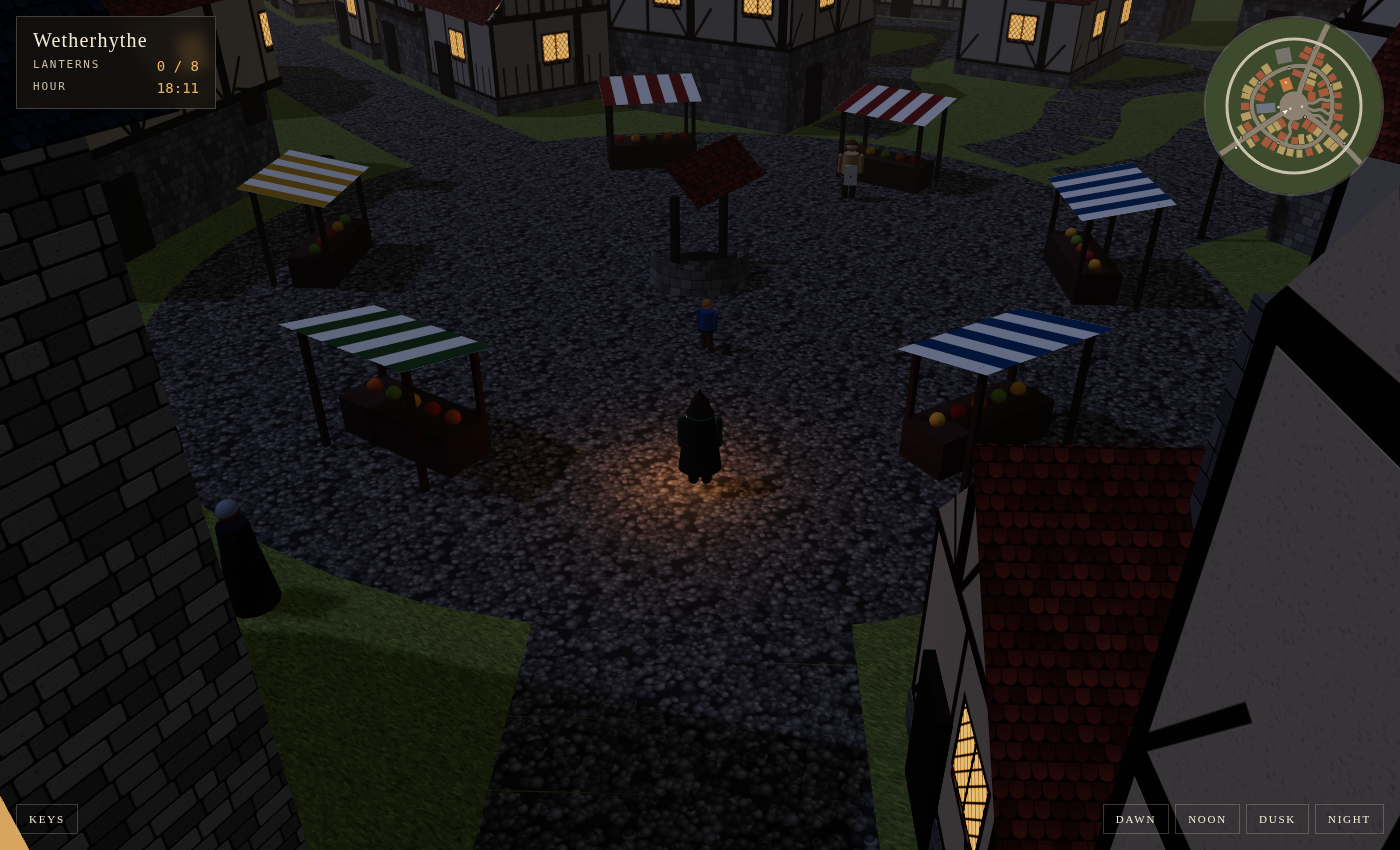
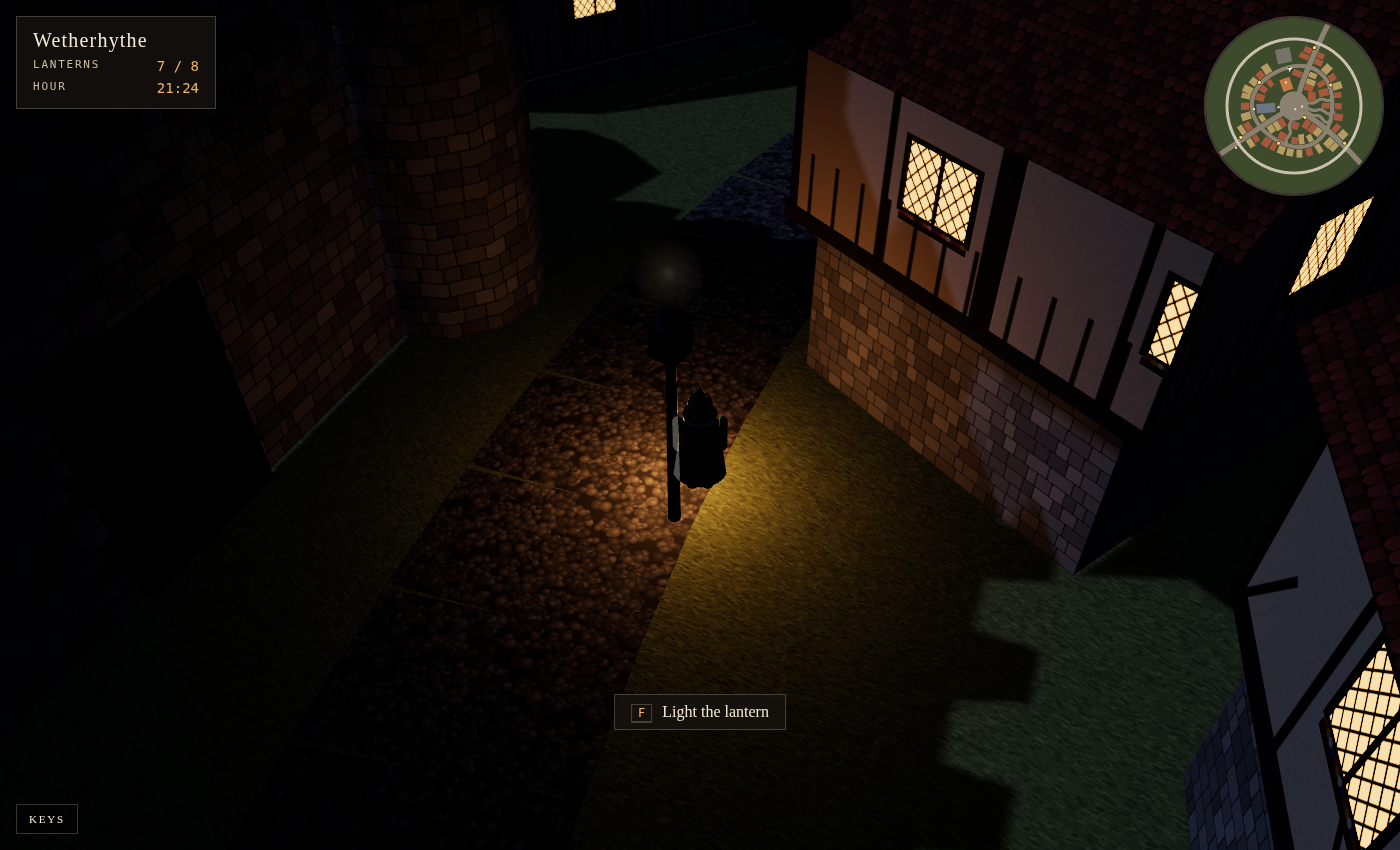
Lanternfall: chimney smoke, embers over unlit lanterns, a child round the well, touch controls
Also a brighter dusk, a steeper camera that steps in front of walls, a
minimap that redraws on wall-clock time, and the lamplighter clear of the
church tower.

Claude-Session: https://claude.ai/code/session_016BTuMxz6FRcSEBygW4xFYi

diff --git a/static/game.js b/static/game.js
@@ -74,6 +74,45 @@ const M = makeMaterials(town.season);
 const world = buildTown(town, M);
 scene.add(world.group);
 const lanterns = buildLanterns(town, M, scene, glowTexture);
+
+// Chimney smoke: a few soft puffs per chimney, rising and thinning on the wind.
+const smoke = (() => {
+  const chimneys = world.chimneys.slice(0, 48);
+  const per = 7, n = chimneys.length * per;
+  const pos = new Float32Array(n * 3), col = new Float32Array(n * 4), age = new Float32Array(n);
+  for (let i = 0; i < n; i++) age[i] = Math.random() * per;
+  const g = new THREE.BufferGeometry();
+  g.setAttribute("position", new THREE.BufferAttribute(pos, 3));
+  g.setAttribute("color", new THREE.BufferAttribute(col, 4));
+  const puff = (() => {
+    const c = document.createElement("canvas");
+    c.width = c.height = 64;
+    const x = c.getContext("2d");
+    const gr = x.createRadialGradient(32, 32, 0, 32, 32, 32);
+    gr.addColorStop(0, "rgba(255,255,255,0.9)");
+    gr.addColorStop(1, "rgba(255,255,255,0)");
+    x.fillStyle = gr;
+    x.fillRect(0, 0, 64, 64);
+    return new THREE.CanvasTexture(c);
+  })();
+  const m = new THREE.PointsMaterial({ map: puff, size: 2.6, vertexColors: true, transparent: true, depthWrite: false });
+  const points = new THREE.Points(g, m);
+  points.frustumCulled = false;
+  scene.add(points);
+  return { update(dt, shade) {
+    for (let i = 0; i < n; i++) {
+      age[i] += dt;
+      if (age[i] > per) age[i] -= per;
+      const c = chimneys[Math.floor(i / per)], a = age[i];
+      pos[i * 3] = c.x + a * 0.55 + Math.sin(a * 1.3 + i) * 0.25;
+      pos[i * 3 + 1] = c.y + a * 0.9;
+      pos[i * 3 + 2] = c.z + a * 0.25;
+      col[i * 4] = col[i * 4 + 1] = col[i * 4 + 2] = shade;
+      col[i * 4 + 3] = Math.max(0, 0.4 * Math.min(1, a * 2) * (1 - a / per));
+    }
+    g.attributes.position.needsUpdate = g.attributes.color.needsUpdate = true;
+  } };
+})();
 const H = (x, z) => heightAt(town, x, z);
 
 const LINES = (() => {
@@ -116,7 +155,7 @@ const state = {
   lit: 0,
   started: 0,
   foundLamplighter: false,
-  yaw: 0.6, pitch: 0.62, dist: 19,
+  yaw: 0.6, pitch: 0.8, dist: 16,
   vel: new THREE.Vector3(),
 };
 const sunDir = new THREE.Vector3();
@@ -140,15 +179,15 @@ function setTime(h) {
   }
   const lightDir = elev > -2 ? sunDir : new THREE.Vector3(-0.3, 0.8, -0.5).normalize();
   sun.userData.dir = lightDir.clone();
-  hemi.intensity = THREE.MathUtils.lerp(1.15, 0.42, night);
+  hemi.intensity = THREE.MathUtils.lerp(1.45, 0.42, night);
   hemi.color.set(0xc8d6f0).lerp(new THREE.Color(0x4a5a8a), night);
-  hemi.groundColor.set(0x5a4a32).lerp(new THREE.Color(0x0d0d14), night);
+  hemi.groundColor.set(0x8a7652).lerp(new THREE.Color(0x0d0d14), night);
   const fogDay = new THREE.Color(season.fog), fogDusk = new THREE.Color(0xd59a6a), fogNight = new THREE.Color(0x0b1020);
   scene.fog.color.copy(fogDay).lerp(fogDusk, low * (1 - night) * 0.7).lerp(fogNight, night);
   sky.visible = night < 0.98;
   scene.background = fogNight;
   stars.material.opacity = night;
-  renderer.toneMappingExposure = THREE.MathUtils.lerp(0.85, 1.25, night);
+  renderer.toneMappingExposure = THREE.MathUtils.lerp(1.0, 1.25, night);
   for (const f of M.facades) f.emissiveIntensity = night * 1.5 + low * 0.15;
   M.churchGlass.emissiveIntensity = night * 1.2;
   carry.intensity = night * 7;
@@ -185,6 +224,28 @@ addEventListener("pointermove", (e) => {
   drag = { x: e.clientX, y: e.clientY };
 });
 addEventListener("wheel", (e) => { state.dist = THREE.MathUtils.clamp(state.dist + e.deltaY * 0.02, 6, 40); }, { passive: true });
+
+// A thumbstick on the left and an action button on the right, on touch screens.
+const joy = { x: 0, z: 0, id: null, ox: 0, oy: 0 };
+if (matchMedia("(pointer: coarse)").matches) {
+  $("touch").hidden = false;
+  const pad = $("stick"), knob = $("knob");
+  pad.addEventListener("pointerdown", (e) => {
+    e.stopPropagation();
+    joy.id = e.pointerId; joy.ox = e.clientX; joy.oy = e.clientY;
+    pad.setPointerCapture(e.pointerId);
+  });
+  pad.addEventListener("pointermove", (e) => {
+    if (e.pointerId !== joy.id) return;
+    const dx = e.clientX - joy.ox, dy = e.clientY - joy.oy, d = Math.hypot(dx, dy), k = Math.min(1, d / 50) / (d || 1);
+    joy.x = dx * k; joy.z = dy * k;
+    knob.style.transform = `translate(${joy.x * 40}px, ${joy.z * 40}px)`;
+  });
+  const end = () => { joy.id = null; joy.x = joy.z = 0; knob.style.transform = ""; };
+  pad.addEventListener("pointerup", end);
+  pad.addEventListener("pointercancel", end);
+  $("act").addEventListener("pointerdown", (e) => { e.stopPropagation(); interact(); });
+}
 
 // ---------------------------------------------------------------- movement
 const R = town.radius;
@@ -253,11 +314,12 @@ function move(dt) {
   if (keys.has("KeyD") || keys.has("ArrowRight")) fx += 1;
   if (keys.has("KeyQ")) state.yaw += dt * 1.8;
   if (keys.has("KeyE")) state.yaw -= dt * 1.8;
-  const run = keys.has("ShiftLeft") || keys.has("ShiftRight");
+  if (joy.id !== null) { fx = joy.x; fz = joy.z; }
+  const run = keys.has("ShiftLeft") || keys.has("ShiftRight") || Math.hypot(joy.x, joy.z) > 0.95;
   const len = Math.hypot(fx, fz);
-  const speed = run ? 7.5 : 4.2;
+  const speed = (run ? 7.5 : 4.2) * Math.min(1, len);
   const target = new THREE.Vector3();
-  if (len > 0 && !dialog.open) {
+  if (len > 0.05 && !dialog.open) {
     const sy = Math.sin(state.yaw), cy = Math.cos(state.yaw);
     target.set((fx * cy + fz * sy) / len * speed, 0, (-fx * sy + fz * cy) / len * speed);
   }
@@ -322,6 +384,7 @@ function interact() {
   }
   f.mesh.lookAt(player.position.x, f.mesh.position.y, player.position.z);
   dialog.open = true;
+  dialog.who = f;
   dialog.lines = lines;
   dialog.i = 0;
   $("dialog-name").textContent = `${f.name}, the ${f.role}`;
@@ -503,7 +566,8 @@ function frame(now) {
       }
     }
     camPos.lerpVectors(look, camPos, reach);
-    camera.position.lerp(camPos, Math.min(1, dt * (reach < 1 ? 14 : 6)));
+    if (camera.position.distanceTo(camPos) > 30) camera.position.copy(camPos);   // a jump, not a walk
+    else camera.position.lerp(camPos, Math.min(1, dt * (reach < 1 ? 14 : 6)));
     camera.lookAt(look);
     sun.target.position.set(p.x, 0, p.z);
     const n = nearest();
@@ -514,7 +578,21 @@ function frame(now) {
     if (now - mmLast > 80) { drawMinimap(); mmLast = now; }
   }
   sun.position.copy(sun.target.position).addScaledVector(sun.userData.dir || sunDir, 150);
-  for (const f of folk) animate(f.mesh, dt, 0);
+  for (const f of folk) {
+    if (f.role === "child" && !(dialog.open && dialog.who === f)) {
+      f.angle = (f.angle ?? Math.atan2(f.z, f.x)) + dt * 0.45;
+      const r = 3.4;
+      f.mesh.position.set(Math.cos(f.angle) * r, 0, Math.sin(f.angle) * r);
+      f.mesh.rotation.y = Math.atan2(-Math.sin(f.angle), Math.cos(f.angle));
+      animate(f.mesh, dt, 0.8);
+    } else animate(f.mesh, dt, 0);
+  }
+  for (const l of lanterns) {
+    l.beacon.visible = !l.lit && state.mode !== "title";
+    l.beacon.position.y = 4.5 + Math.sin(now * 0.002 + l.x) * 0.15;
+    l.beacon.material.opacity = 0.35 + 0.25 * Math.sin(now * 0.004 + l.z);
+  }
+  smoke.update(dt, 0.75 - (state.night || 0) * 0.45);
   for (const l of lanterns) if (l.lit) l.light.intensity = l.base * (0.9 + 0.1 * Math.sin(now * 0.013 + l.x) * Math.sin(now * 0.007 + l.z));
   renderer.render(scene, camera);
   requestAnimationFrame(frame);

diff --git a/static/world.js b/static/world.js
@@ -139,13 +139,15 @@ function house(P, h, colliders) {
   const rm = m.clone().multiply(M4(0, top, 0, along ? 0 : Math.PI / 2));
   P.add(h.roof, roof(span, len, rise, h.roof === "thatch" ? 0.7 : 0.45), rm);
   P.add(facade, gables(span, len, rise), rm, tint);
+  let chimney = null;
   if (h.chimney) {
     const cx = along ? len * 0.3 : span * 0.15, cz = along ? span * 0.15 : len * 0.3;
     P.add("stone", box(0.9, rise + 1.6, 0.9), m.clone().multiply(M4(cx, top + (rise + 1.6) / 2, cz)));
+    chimney = new THREE.Vector3(cx, top + rise + 1.7, cz).applyMatrix4(m);
   }
   P.add("darkWood", box(1.2, 2.2, 0.15, 1, 1), m.clone().multiply(M4(-h.w * 0.22, 1.1, h.d / 2 + 0.05)));
   colliders.push({ x: h.x, z: h.z, ry: h.ry, hw: h.w / 2 + 0.1, hd: h.d / 2 + 0.1, top: top + rise });
-  return { top: top + rise };
+  return { top: top + rise, chimney };
 }
 
 export function buildTown(town, M) {
@@ -222,10 +224,15 @@ export function buildTown(town, M) {
   }
 
   // Houses, then the three landmarks.
-  for (const h of town.houses) house(P, h, colliders);
+  const chimneys = [];
+  for (const h of town.houses) {
+    const built = house(P, h, colliders);
+    if (built.chimney) chimneys.push(built.chimney);
+  }
   if (town.tavern) {
     const t = town.tavern;
-    house(P, { ...t, floors: 2, roof: "tile", ridge: "x", tint: 3, jetty: true, chimney: true, facade: 1 }, colliders);
+    const built = house(P, { ...t, floors: 2, roof: "tile", ridge: "x", tint: 3, jetty: true, chimney: true, facade: 1 }, colliders);
+    chimneys.push(built.chimney);
     const m = M4(t.x, 0, t.z, t.ry);
     P.add("iron", box(0.08, 0.08, 1.4), m.clone().multiply(M4(t.w * 0.3, 3.4, t.d / 2 + 0.6)));
     P.add("wood", box(0.1, 0.9, 1.0, 1, 1), m.clone().multiply(M4(t.w * 0.3, 2.85, t.d / 2 + 0.9, Math.PI / 2)));
@@ -343,7 +350,7 @@ export function buildTown(town, M) {
     return M[key];
   };
   P.build(mat, group);
-  return { group, colliders, circles, gapHalf };
+  return { group, colliders, circles, gapHalf, chimneys };
 }
 
 // A lantern on an iron post. Lighting one turns up its glass, its glow and
@@ -369,9 +376,13 @@ export function buildLanterns(town, M, scene, glowTexture) {
     const glow = new THREE.Sprite(new THREE.SpriteMaterial({ map: glowTexture, color: 0xffb060, transparent: true, opacity: 0, depthWrite: false, blending: THREE.AdditiveBlending }));
     glow.scale.setScalar(2.6);
     glow.position.y = 3.45;
-    g.add(post, cage, glass, cap, light, glow);
+    // A drifting ember over a lantern nobody has lit yet, so one can be found in the dark.
+    const beacon = new THREE.Sprite(new THREE.SpriteMaterial({ map: glowTexture, color: 0xffe2a8, transparent: true, opacity: 0.5, depthWrite: false, blending: THREE.AdditiveBlending }));
+    beacon.scale.setScalar(0.9);
+    beacon.position.y = 4.5;
+    g.add(post, cage, glass, cap, light, glow, beacon);
     scene.add(g);
-    out.push({ x, z, lit: false, glass, light, glow });
+    out.push({ x, z, lit: false, glass, light, glow, beacon });
   }
   return out;
 }

diff --git a/static/textures.js b/static/textures.js
@@ -266,9 +266,9 @@ function clothCanvas(colour) {
 }
 
 export const SEASONS = {
-  spring: { grass: "#6f8f45", leaves: [0x7da64a, 0x9cbf5a, 0xe7b9c8], field: ["#7d9b4c", "#8aa456", "#6d8a3e"], snow: 0, fog: 0xc9d4d8 },
-  summer: { grass: "#6a8a3c", leaves: [0x4f7a32, 0x5f8a3a, 0x46702c], field: ["#c9a94a", "#9fae4c", "#b8953e"], snow: 0, fog: 0xd2d8d6 },
-  autumn: { grass: "#7f8443", leaves: [0xc0702a, 0xa8482a, 0xd9a03a, 0x7a7a30], field: ["#a8874a", "#8a6a3a", "#b49a5a"], snow: 0, fog: 0xd6cbb8 },
+  spring: { grass: "#7c9c50", leaves: [0x7da64a, 0x9cbf5a, 0xe7b9c8], field: ["#7d9b4c", "#8aa456", "#6d8a3e"], snow: 0, fog: 0xc9d4d8 },
+  summer: { grass: "#78994a", leaves: [0x4f7a32, 0x5f8a3a, 0x46702c], field: ["#c9a94a", "#9fae4c", "#b8953e"], snow: 0, fog: 0xd2d8d6 },
+  autumn: { grass: "#8a9050", leaves: [0xc0702a, 0xa8482a, 0xd9a03a, 0x7a7a30], field: ["#a8874a", "#8a6a3a", "#b49a5a"], snow: 0, fog: 0xd6cbb8 },
   winter: { grass: "#dfe4e8", leaves: [0x6d5a48, 0x5b4b3c], field: ["#e8ecef", "#dfe4e8", "#e4e8ea"], snow: 1, fog: 0xd8dee4 },
 };
 
@@ -279,7 +279,7 @@ export function makeMaterials(season) {
   M.grass = material(grassCanvas(3, S.grass), { roughness: 1 }, snowy ? 0.6 : 1.2);
   M.cobble = material(cobbleCanvas(5, snowy ? [190, 190, 192] : [128, 118, 104]), { roughness: 0.85 }, 3);
   M.dirt = material(plainCanvas(9, snowy ? "#cfd3d6" : "#8a7457", false), { roughness: 1 }, 1);
-  M.stone = material(stoneCanvas(11), {}, 3.5);
+  M.stone = material(stoneCanvas(11, [176, 166, 148]), {}, 3.5);
   M.wallStone = material(stoneCanvas(12, [160, 152, 138], 10), {}, 3.5);
   M.churchStone = material(stoneCanvas(13, [176, 166, 146], 12), {}, 3);
   M.tile = material(rowsCanvas(17, snowy ? [225, 228, 232] : [150, 72, 48], 14, false), {}, 3);

diff --git a/templates/index.html b/templates/index.html
@@ -61,6 +61,11 @@
   #times button { padding: 8px 12px; font-size: 11px; }
   #btn-help { position: fixed; left: 16px; bottom: 16px; padding: 8px 12px; font-size: 11px; }
   #help { position: fixed; left: 16px; bottom: 60px; padding: 14px 18px; font-size: 14px; line-height: 2; }
+  #stick { position: fixed; left: 24px; bottom: 24px; width: 120px; height: 120px; border-radius: 50%; touch-action: none;
+           border: 1px solid var(--edge); background: rgba(22,18,14,0.35); display: grid; place-items: center; }
+  #knob { width: 48px; height: 48px; border-radius: 50%; background: rgba(243,234,214,0.55); }
+  #act { position: fixed; right: 24px; bottom: 76px; width: 72px; height: 72px; border-radius: 50%; padding: 0; font-size: 22px; letter-spacing: 0; touch-action: none; }
+  @media (pointer: coarse) { #btn-help, #times { bottom: auto; top: 210px; } #btn-help { display: none; } }
   #end { position: fixed; inset: 0; display: grid; place-items: center; background: rgba(8,6,4,0.45); padding: 16px; }
   #end .card { max-width: 460px; padding: 30px; text-align: center; }
   #end h2 { font-weight: 400; font-size: 32px; margin: 0 0 10px; letter-spacing: 0.06em; }
@@ -138,6 +143,10 @@
     <kbd>Q</kbd><kbd>E</kbd> or drag: turn the view · wheel: zoom<br>
     <kbd>F</kbd> talk to someone, light a lantern
   </div>
+</div>
+<div id="touch" hidden>
+  <div id="stick"><div id="knob"></div></div>
+  <button id="act" aria-label="Talk or light">F</button>
 </div>
 <div id="toast" class="panel"></div>
 <div id="end" hidden>

diff --git a/README.md b/README.md
@@ -1,6 +1,6 @@
 # Lanternfall
 
-![The market square at dusk](.github/lanternfall.png)
+![Lighting a lantern at night](.github/lanternfall.png)
 
 It is the eve of the Lantern Fair, and every lamp in town has gone dark. Walk
 the streets of a walled medieval town, ask the townsfolk, and light every
